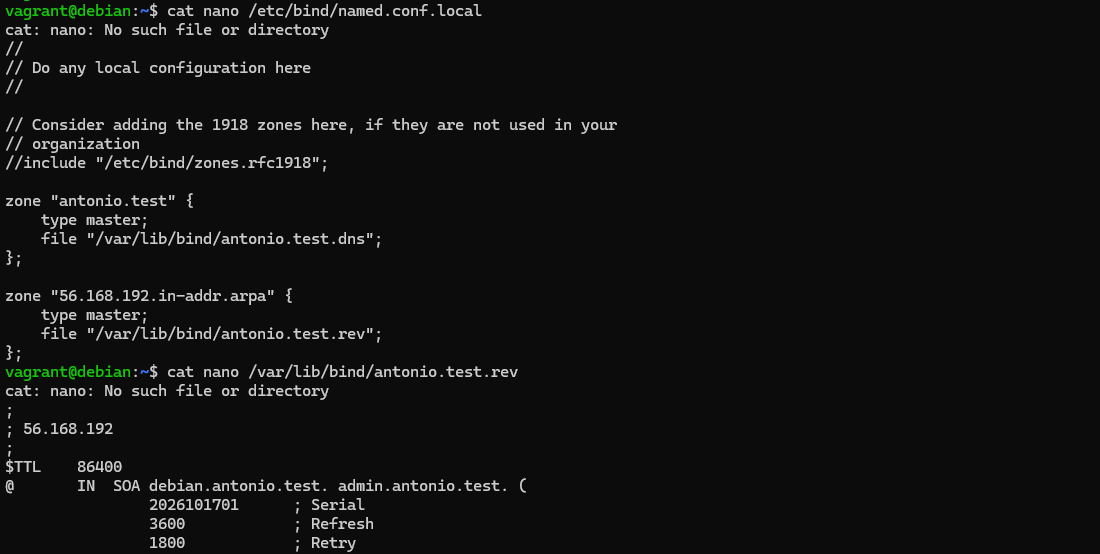
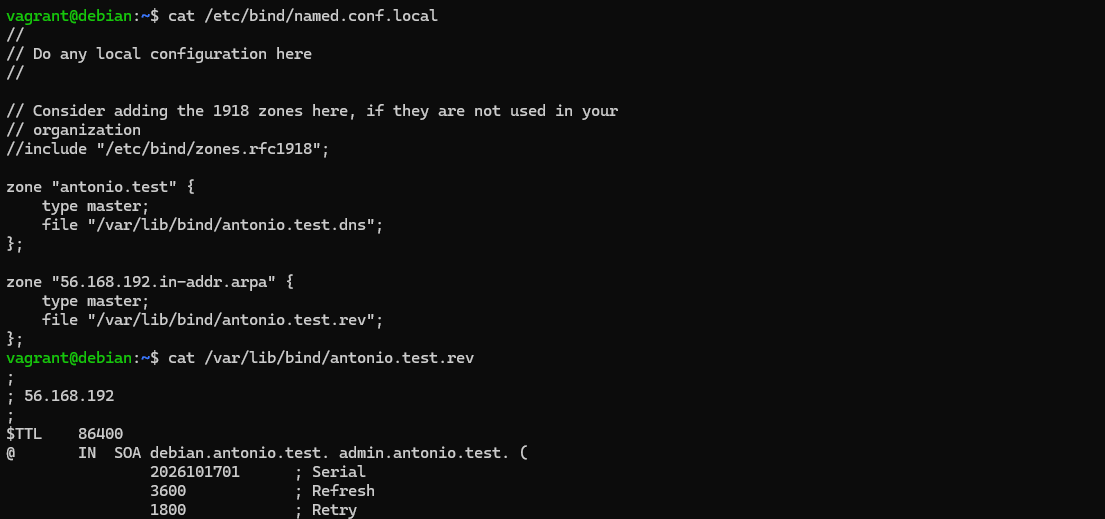
Actualizamos y terminamos la documentacion del punto 4

diff --git a/doc/README.md b/doc/README.md
@@ -86,9 +86,15 @@ Tambien creamos el archivo antonio.test.rev con las lineas correspondientes.
 Copiamos los dos archivos dentro del proyecto en la carpeta files.
 
 ![Archivos zona inversa editados](img/14-archivos-zona-inversa.png)
-ª[Archivos zona inversa editados](img/15-archivos-zona-inversa2.png)
+![Archivos zona inversa editados](img/15-archivos-zona-inversa2.png)
 
 Editamos el archivo 03-zonas.sh y añadimos:
 cp /vagrant/files/antonio.test.rev /var/lib/bind/antonio.test.rev
 
-ª[Archivo 03-zonas.sh editado](img/16-zonas.sh-editado.png)
+![Archivo 03-zonas.sh editado](img/16-zonas.sh-editado.png)
+
+Comprobamos las configuraciones y las añadimos a 03-zonas.sh
+
+![Comprobacion de configuraciones](img/17-comprobacion-configuraciones.png)
+![Comprobacion de configuraciones](img/18-comprobacion-configuraciones2.png)
+
